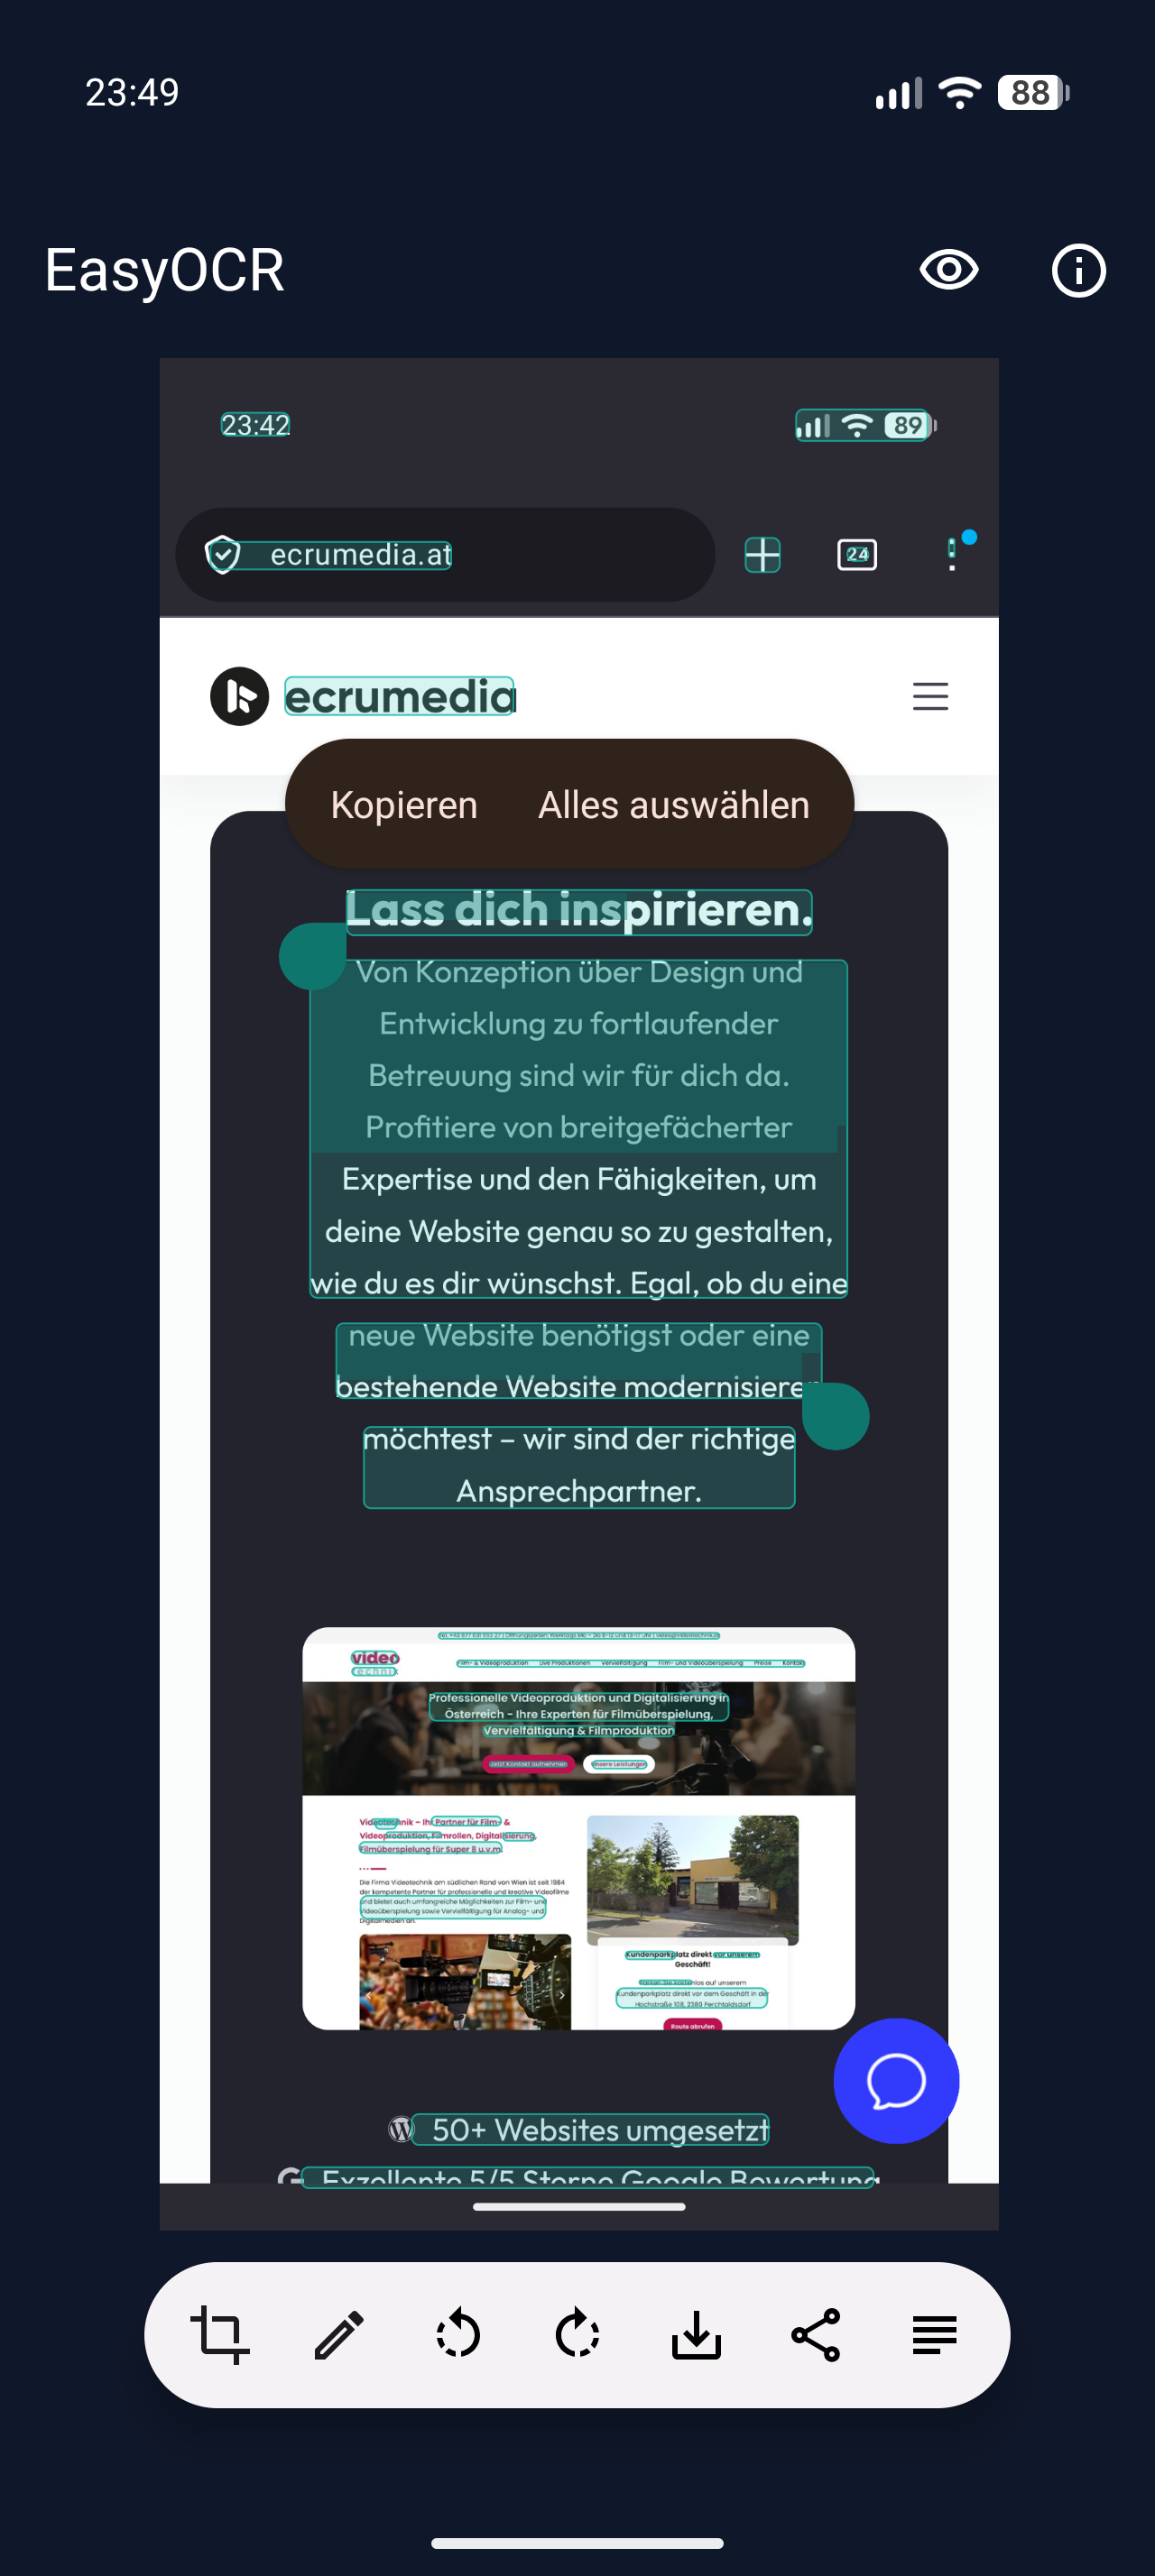
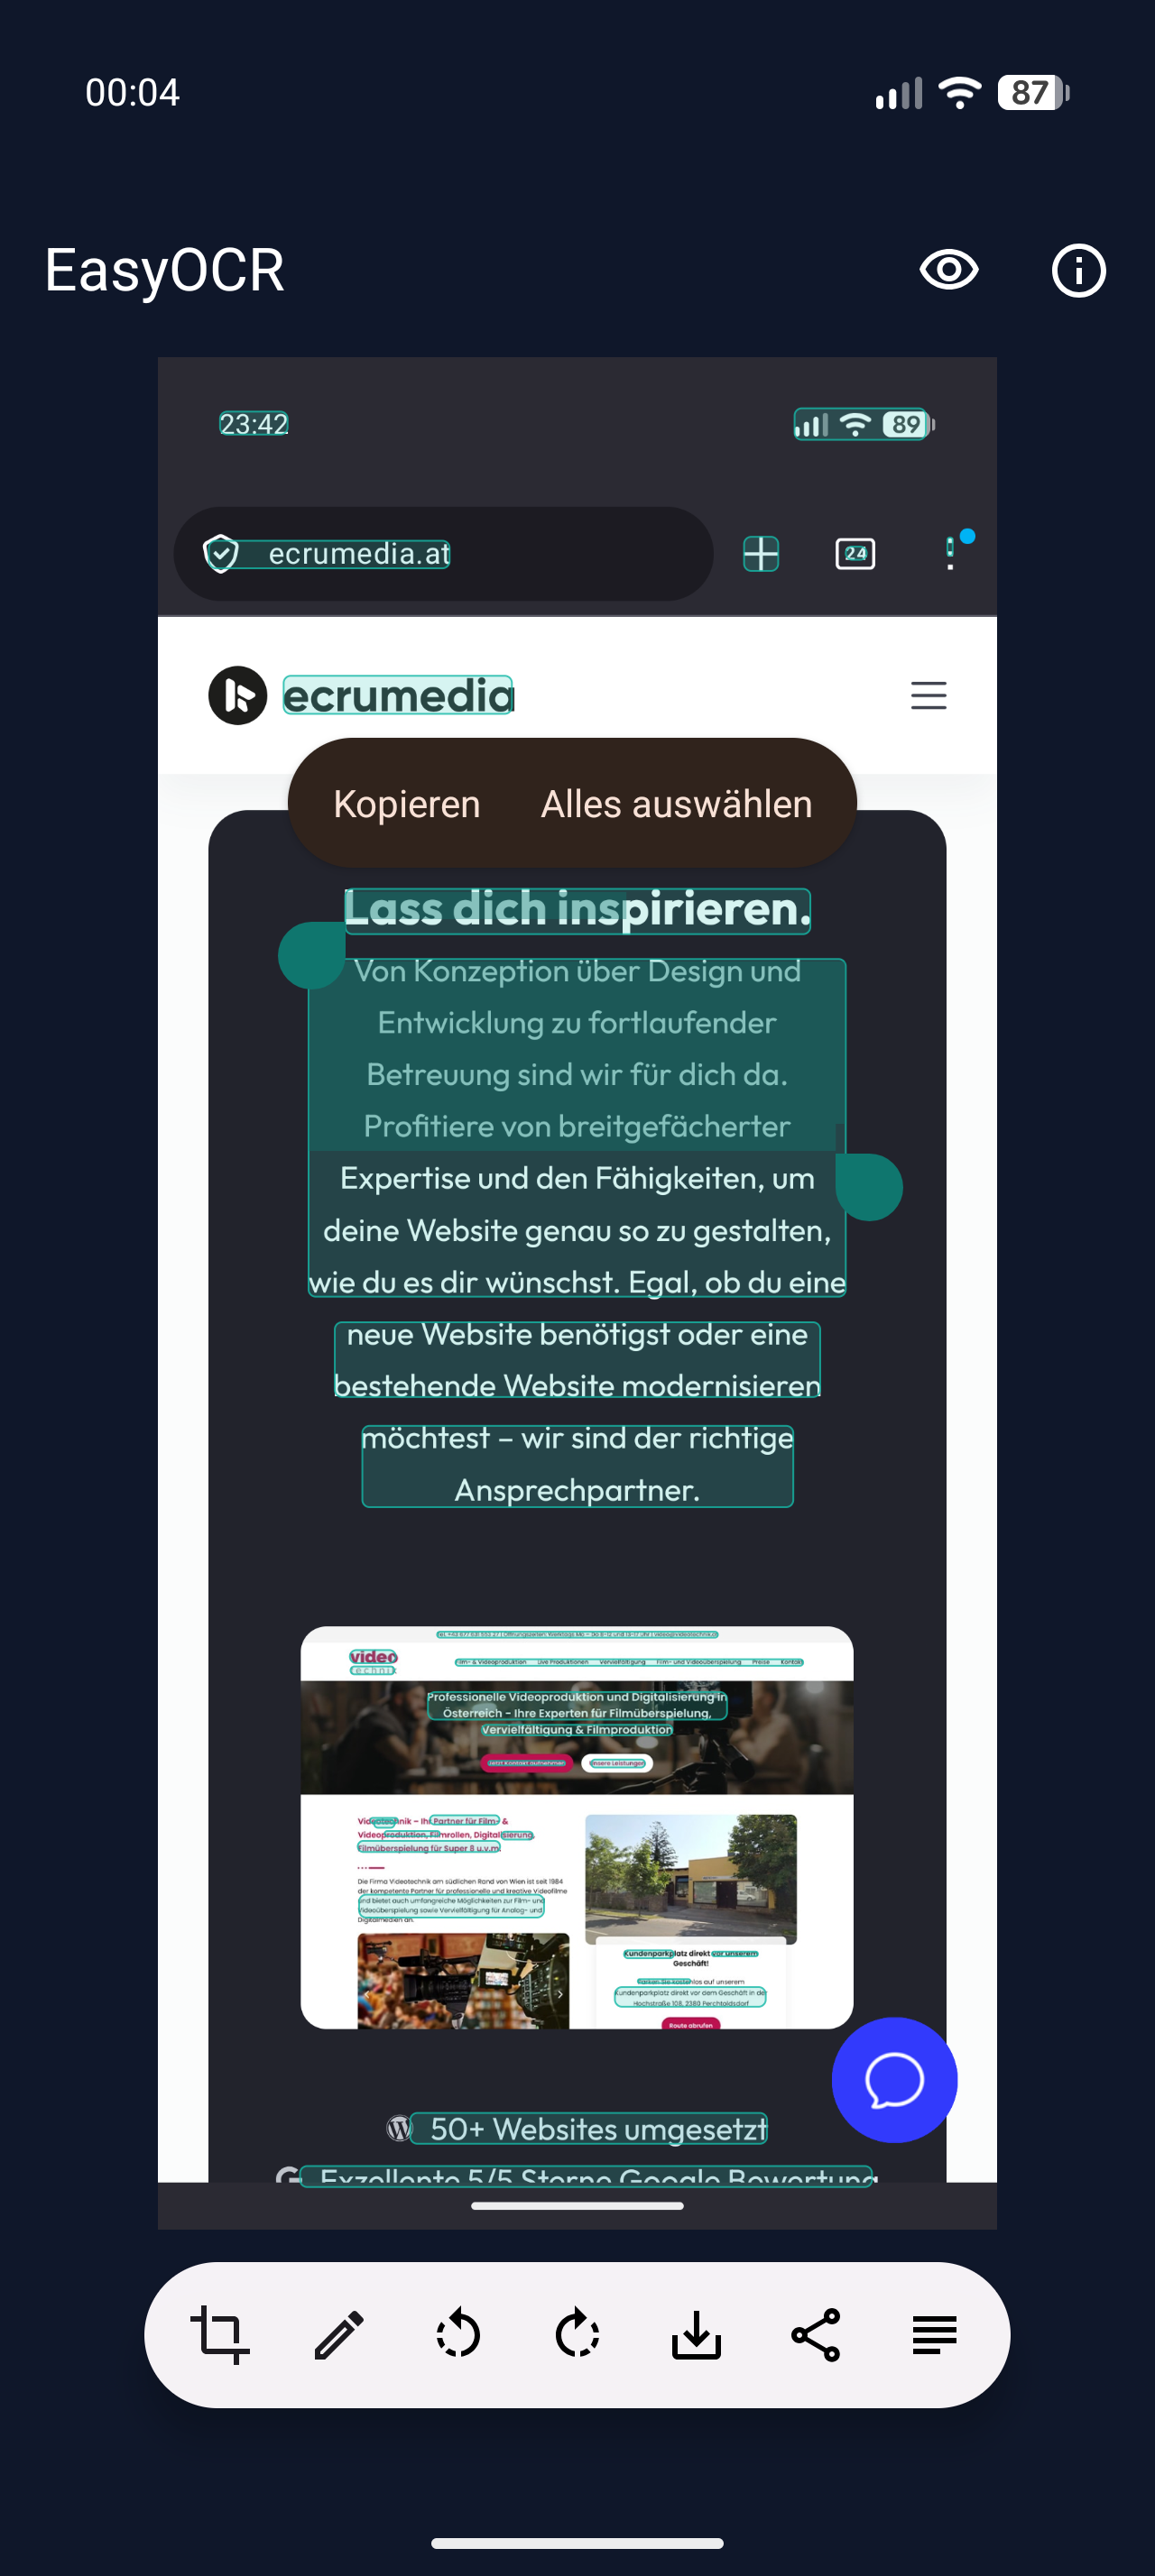
Refresh README download button and screenshots

diff --git a/README.md b/README.md
@@ -2,7 +2,11 @@
 
 EasyOCR is an open-source, privacy-first Android image editor for copying text from screenshots. It is designed to appear in Android's screenshot/image editor flow: take a screenshot, tap the preview, choose EasyOCR, and select text directly on the image.
 
-[![Get it on GitHub](https://img.shields.io/badge/Get%20it%20on-GitHub-181717?logo=github)](https://github.com/MosesEllermann/EasyOCR/releases/latest)
+<p align="center">
+  <a href="https://github.com/MosesEllermann/EasyOCR/releases/latest">
+    <img src="https://img.shields.io/badge/Download%20APK-Latest%20GitHub%20Release-238636?style=for-the-badge&logo=github&logoColor=white" alt="Download APK from the latest GitHub release">
+  </a>
+</p>
 
 ## Why EasyOCR Exists
 